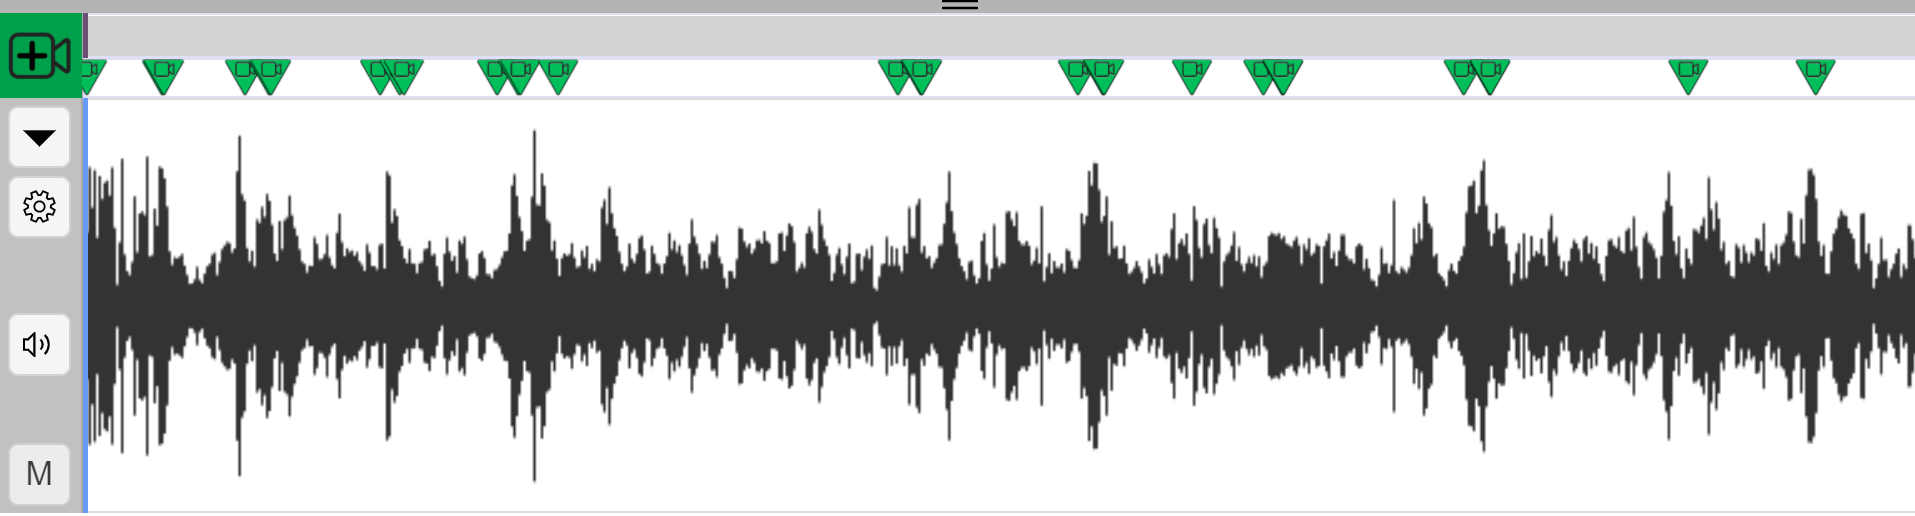
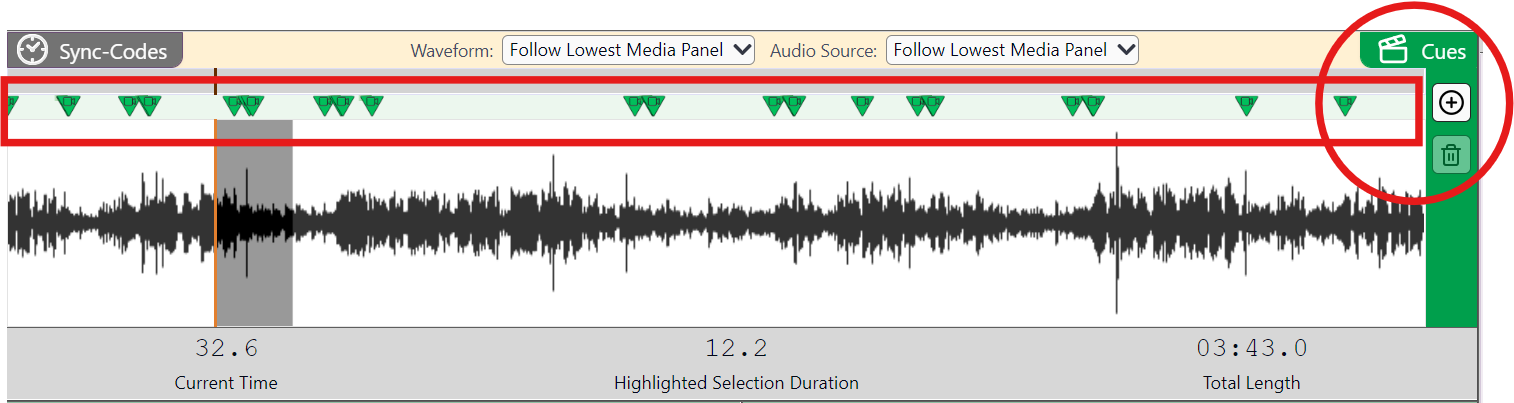
Edit and add new images to Timeline

diff --git a/timeline.md b/timeline.md
@@ -7,8 +7,9 @@ For some video and audio files, a waveform cannot be generated.
 In that case, the waveform will be blank.
 See [Tips & Tricks](tips.md) for ideas how to solve this.
 
-A Timeline panel is also used for viewing managing [Sync-codes](sync-code.md) and [Video-cues](cues.md).
+[![Timeline](images/timeline/timeline.png)](images/timeline/timeline.png)
 
+A Timeline panel is also used for viewing managing [Sync-codes](sync-code.md) and [Video-cues](cues.md).
 
 ### Some tips for using the Timeline panel
 
@@ -28,11 +29,19 @@ This enables an ability to focus on different timescales simultaneously, as well
 
 ### Time on the Timeline panel
 
-The main timeline displays the current time at the position of the playhead, the highlighted selection interval (looping) and the total length of the audio or video source.
+A Timeline displays the current time at the position of the playhead, the highlighted selection interval (looping) and the total length of the audio or video source.
 
-[![Main timeline](images/timeline/main-timeline.png)](images/timeline/main-timeline.png)
+[![Time](images/timeline/time.png)](images/timeline/time.png)
 
 - The times are given to the nearest tenth-of-a-second (0.1s).
+
+### Sync-codes on the Timeline
+
+[![Sync-code timeline](images/timeline/sync-code-timeline.png)](images/timeline/sync-code-timeline.png)
+
+The Sync-codes are shown on the Timeline.
+Display can be toggled on/off at the top left of the Timeline.
+
 - In _Show/hide highlight of current sync-code block_ (CS) mode, the current transcript segment in the editor between adjacent [sync-codes](sync-code.md) will be highlighted as the video plays.
 The transcript will be automatically scrolled to keep the current segment visible as the video plays.
     - The mode can be toggled on/off using the button at the top right of the Editor panel.
